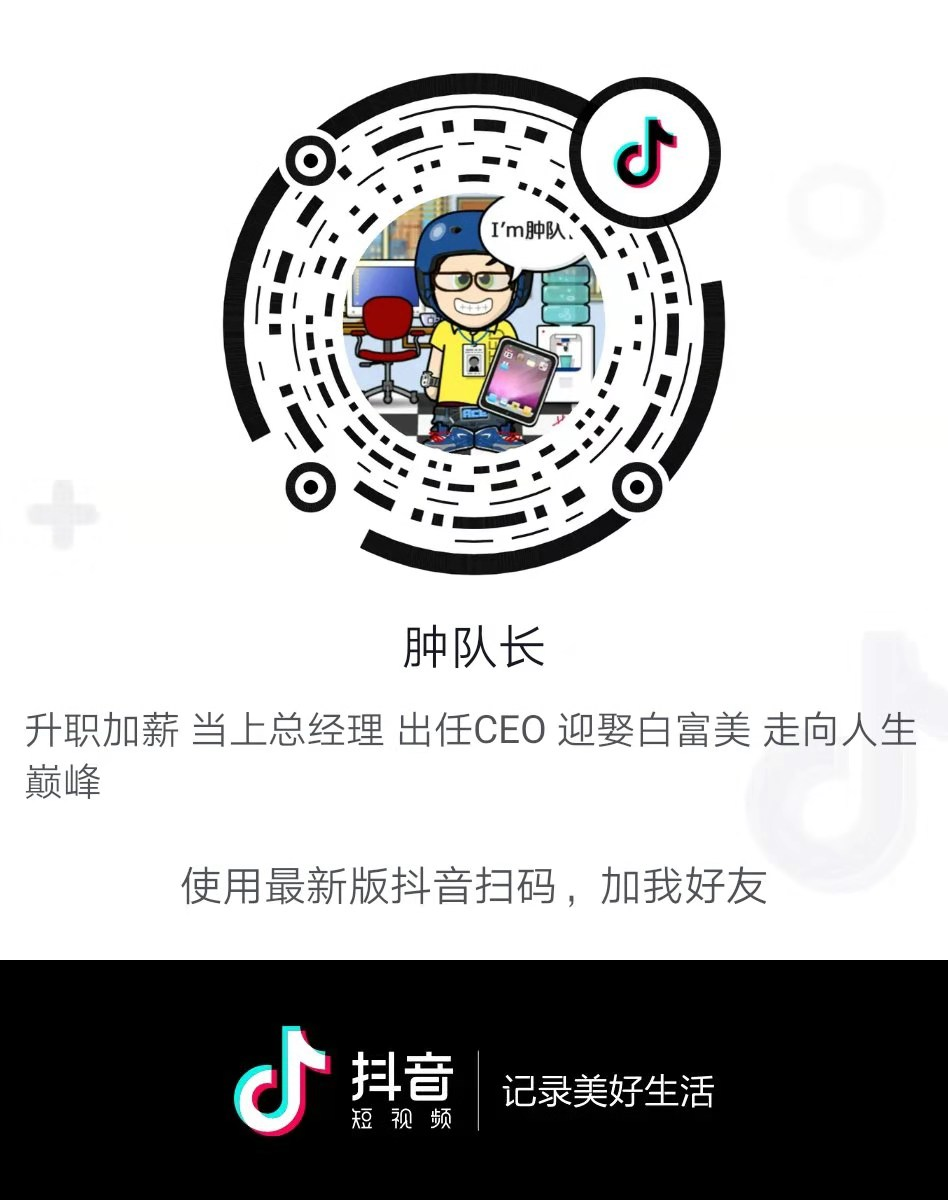
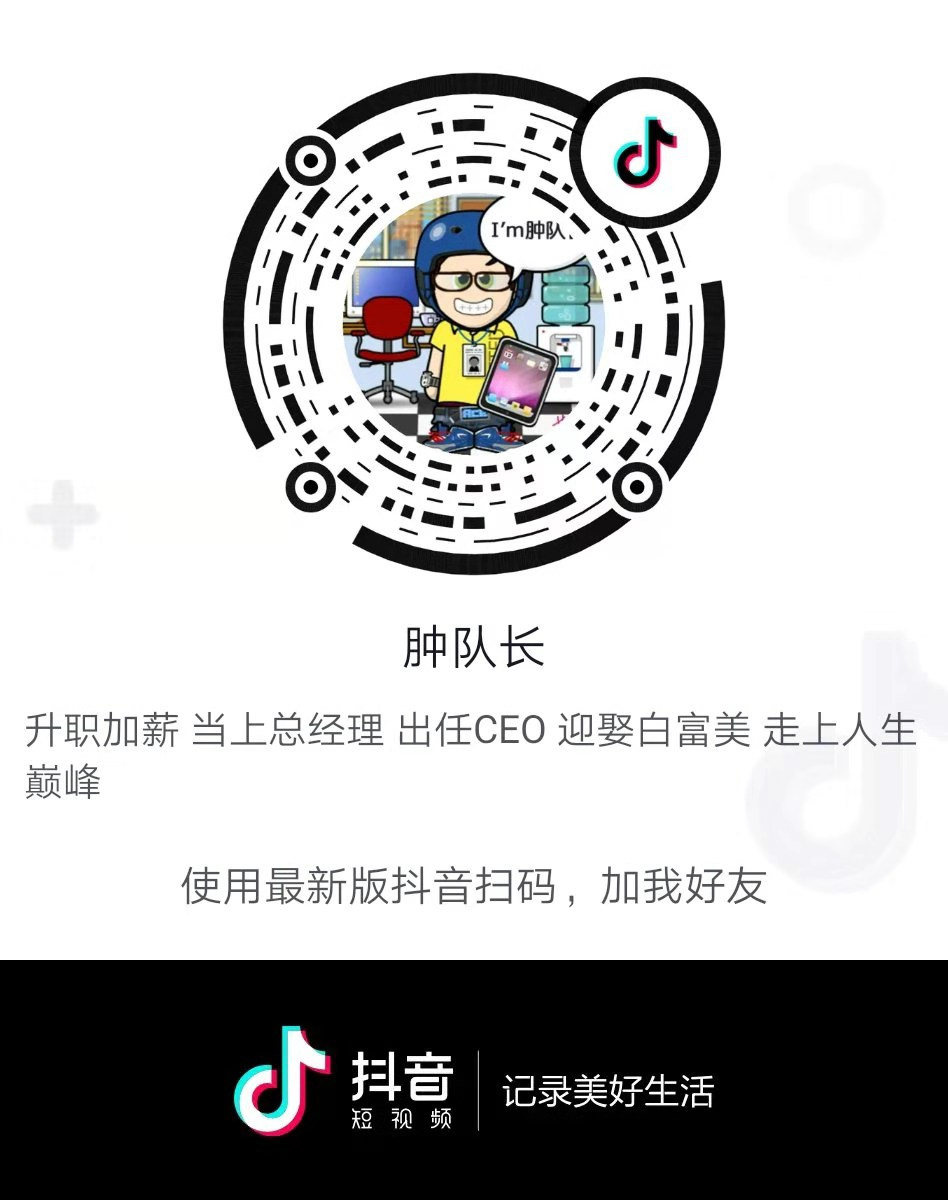
Update douyin QR code

Changed region(s): [[0.2753, 0.0925, 0.7342, 0.4625], [0.8565, 0.5858, 0.8871, 0.6167]]

diff --git a/_posts/2011-9-22-kosudoku.md b/_posts/2011-9-22-kosudoku.md
@@ -2,7 +2,7 @@
 layout: post
 title: KOsudoku(Android解数独app)
 description: "毕业前的实训，老师以数独游戏为例讲解如何做一个Android app。我平时也爱玩数独，自觉解题方法也还行，干脆实现到代码算法里吧，拿程序来解题。于是我向老师申请把我的作业调整下，不写数独游戏了，写解数独的app。然后就有了这货。。。"
-modified: 2018-06-23
+modified: 2018-09-13
 tags: [作品]
 categories: [Prod]
 sid: kosudoku
